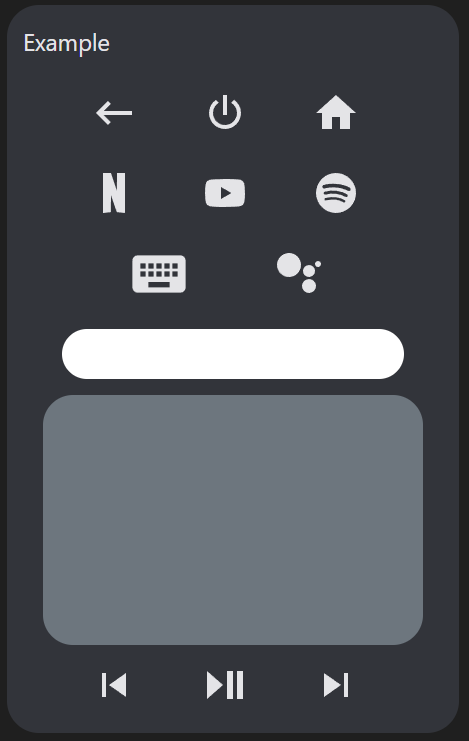
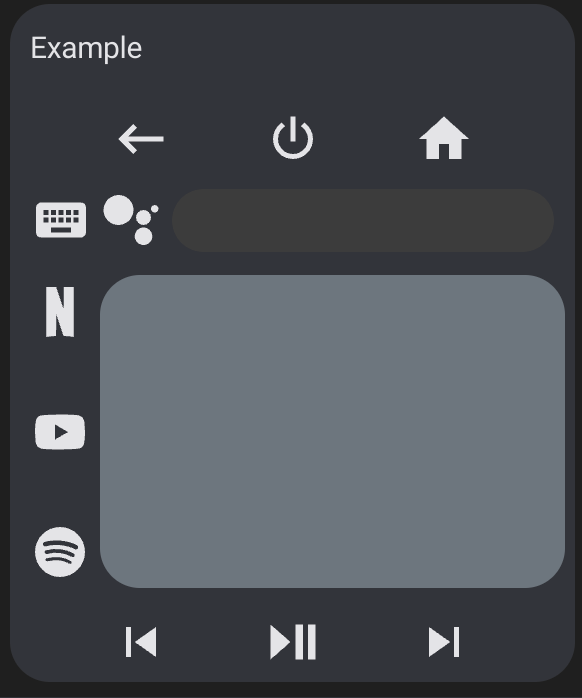
updated hacs info card with better example and new config, row and column css updates

diff --git a/src/android-tv-card.ts b/src/android-tv-card.ts
@@ -812,9 +812,12 @@ class AndroidTVCard extends LitElement {
 				}
 				.row {
 					display: flex;
+					flex-wrap: nowrap;
+					flex-direction: row;
 					width: -moz-available;
 					width: -webkit-fill-available;
 					width: fill-available;
+					min-height: 48px;
 					flex: 1;
 					padding: 8px;
 					justify-content: space-evenly;
@@ -822,11 +825,12 @@ class AndroidTVCard extends LitElement {
 				}
 				.column {
 					display: flex;
-					flex-wrap: wrap;
+					flex-wrap: nowrap;
 					flex-direction: column;
 					width: -moz-available;
 					width: -webkit-fill-available;
 					width: fill-available;
+					min-height: 48px;
 					flex: 1;
 					padding: 8px;
 					justify-content: space-evenly;

diff --git a/dist/android-tv-card.js b/dist/android-tv-card.js
@@ -67,9 +67,12 @@
 				}
 				.row {
 					display: flex;
+					flex-wrap: nowrap;
+					flex-direction: row;
 					width: -moz-available;
 					width: -webkit-fill-available;
 					width: fill-available;
+					min-height: 48px;
 					flex: 1;
 					padding: 8px;
 					justify-content: space-evenly;
@@ -77,11 +80,12 @@
 				}
 				.column {
 					display: flex;
-					flex-wrap: wrap;
+					flex-wrap: nowrap;
 					flex-direction: column;
 					width: -moz-available;
 					width: -webkit-fill-available;
 					width: fill-available;
+					min-height: 48px;
 					flex: 1;
 					padding: 8px;
 					justify-content: space-evenly;

diff --git a/info.md b/info.md
@@ -4,15 +4,15 @@ A fork of usernein's tv-card for the Home Assistant [Android TV Remote](https://
 
 - Allows touchpad swipes to remap to custom keys, allowing for use with more than Android TV or other media players.
 - Fixes touchpad double tap behavior and allows for long single taps on the touchpad to be remapped.
+- Allows you to change the touchpad height using the configuration option `touchpad_height`.
 - Changes long press/hold to only repeat for directional keys/touch and volume up/down, and does a long press action for anything else.
 - Tweaks navigation behavior to behave more like the Google TV remote.
-- Lets you name rows anything and add unlimited rows as long as they have `_row` in the name and don't have duplicate names.
-- Allows you to change the touchpad height using the configuration option `touchpad_height`.
+- Changes row configuration to nested arrays. Every level nested past the second array alternates between columns and rows, allowing for much more customization.
 - Many more default keys and sources
-	- *Not all working or tested at this time, let me know if you find the correct source/activity for the broken ones!
+	- _Not all working or tested at this time, let me know if you find the correct source/activity for the broken ones!_
 - Keyboard text entry via the [Android Debug Bridge integration](https://www.home-assistant.io/integrations/androidtv/) with three methods implemented depending on the button used:
-  - `keyboard`: seamless live key entry.
-  - `textbox`: bulk key entry.
+  - `keyboard`: seamless live text entry.
+  - `textbox`: bulk text entry.
   - `search`: Google Assistant search.
 
 **Sample overview:**
@@ -27,23 +27,23 @@ remote_id: remote.google_chromecast
 media_player_id: media_player.google_chromecast
 adb_id: media_player.google_chromecast_adb
 title: Example
-power_row:
-  - back
-  - power
-  - home
-apps_row:
-  - netflix
-  - youtube
-  - spotify
-keyboard_row:
-  - keyboard
-  - search
-volume_row: slider
-navigation_row: touchpad
-media_control_row:
-  - previous
-  - play_pause
-  - next
+rows:
+  - - back
+    - power
+    - home
+  - - keyboard
+    - search
+    - volume_slider
+  - - - netflix
+      - null
+      - youtube
+      - null
+      - spotify
+    - navigation_touchpad
+  - - previous
+    - play_pause
+    - next
+
 ```
 
 You may want to set custom buttons for your tv. [Check it out](https://github.com/Nerwyn/android-tv-card/blob/main/README.md#notice).
